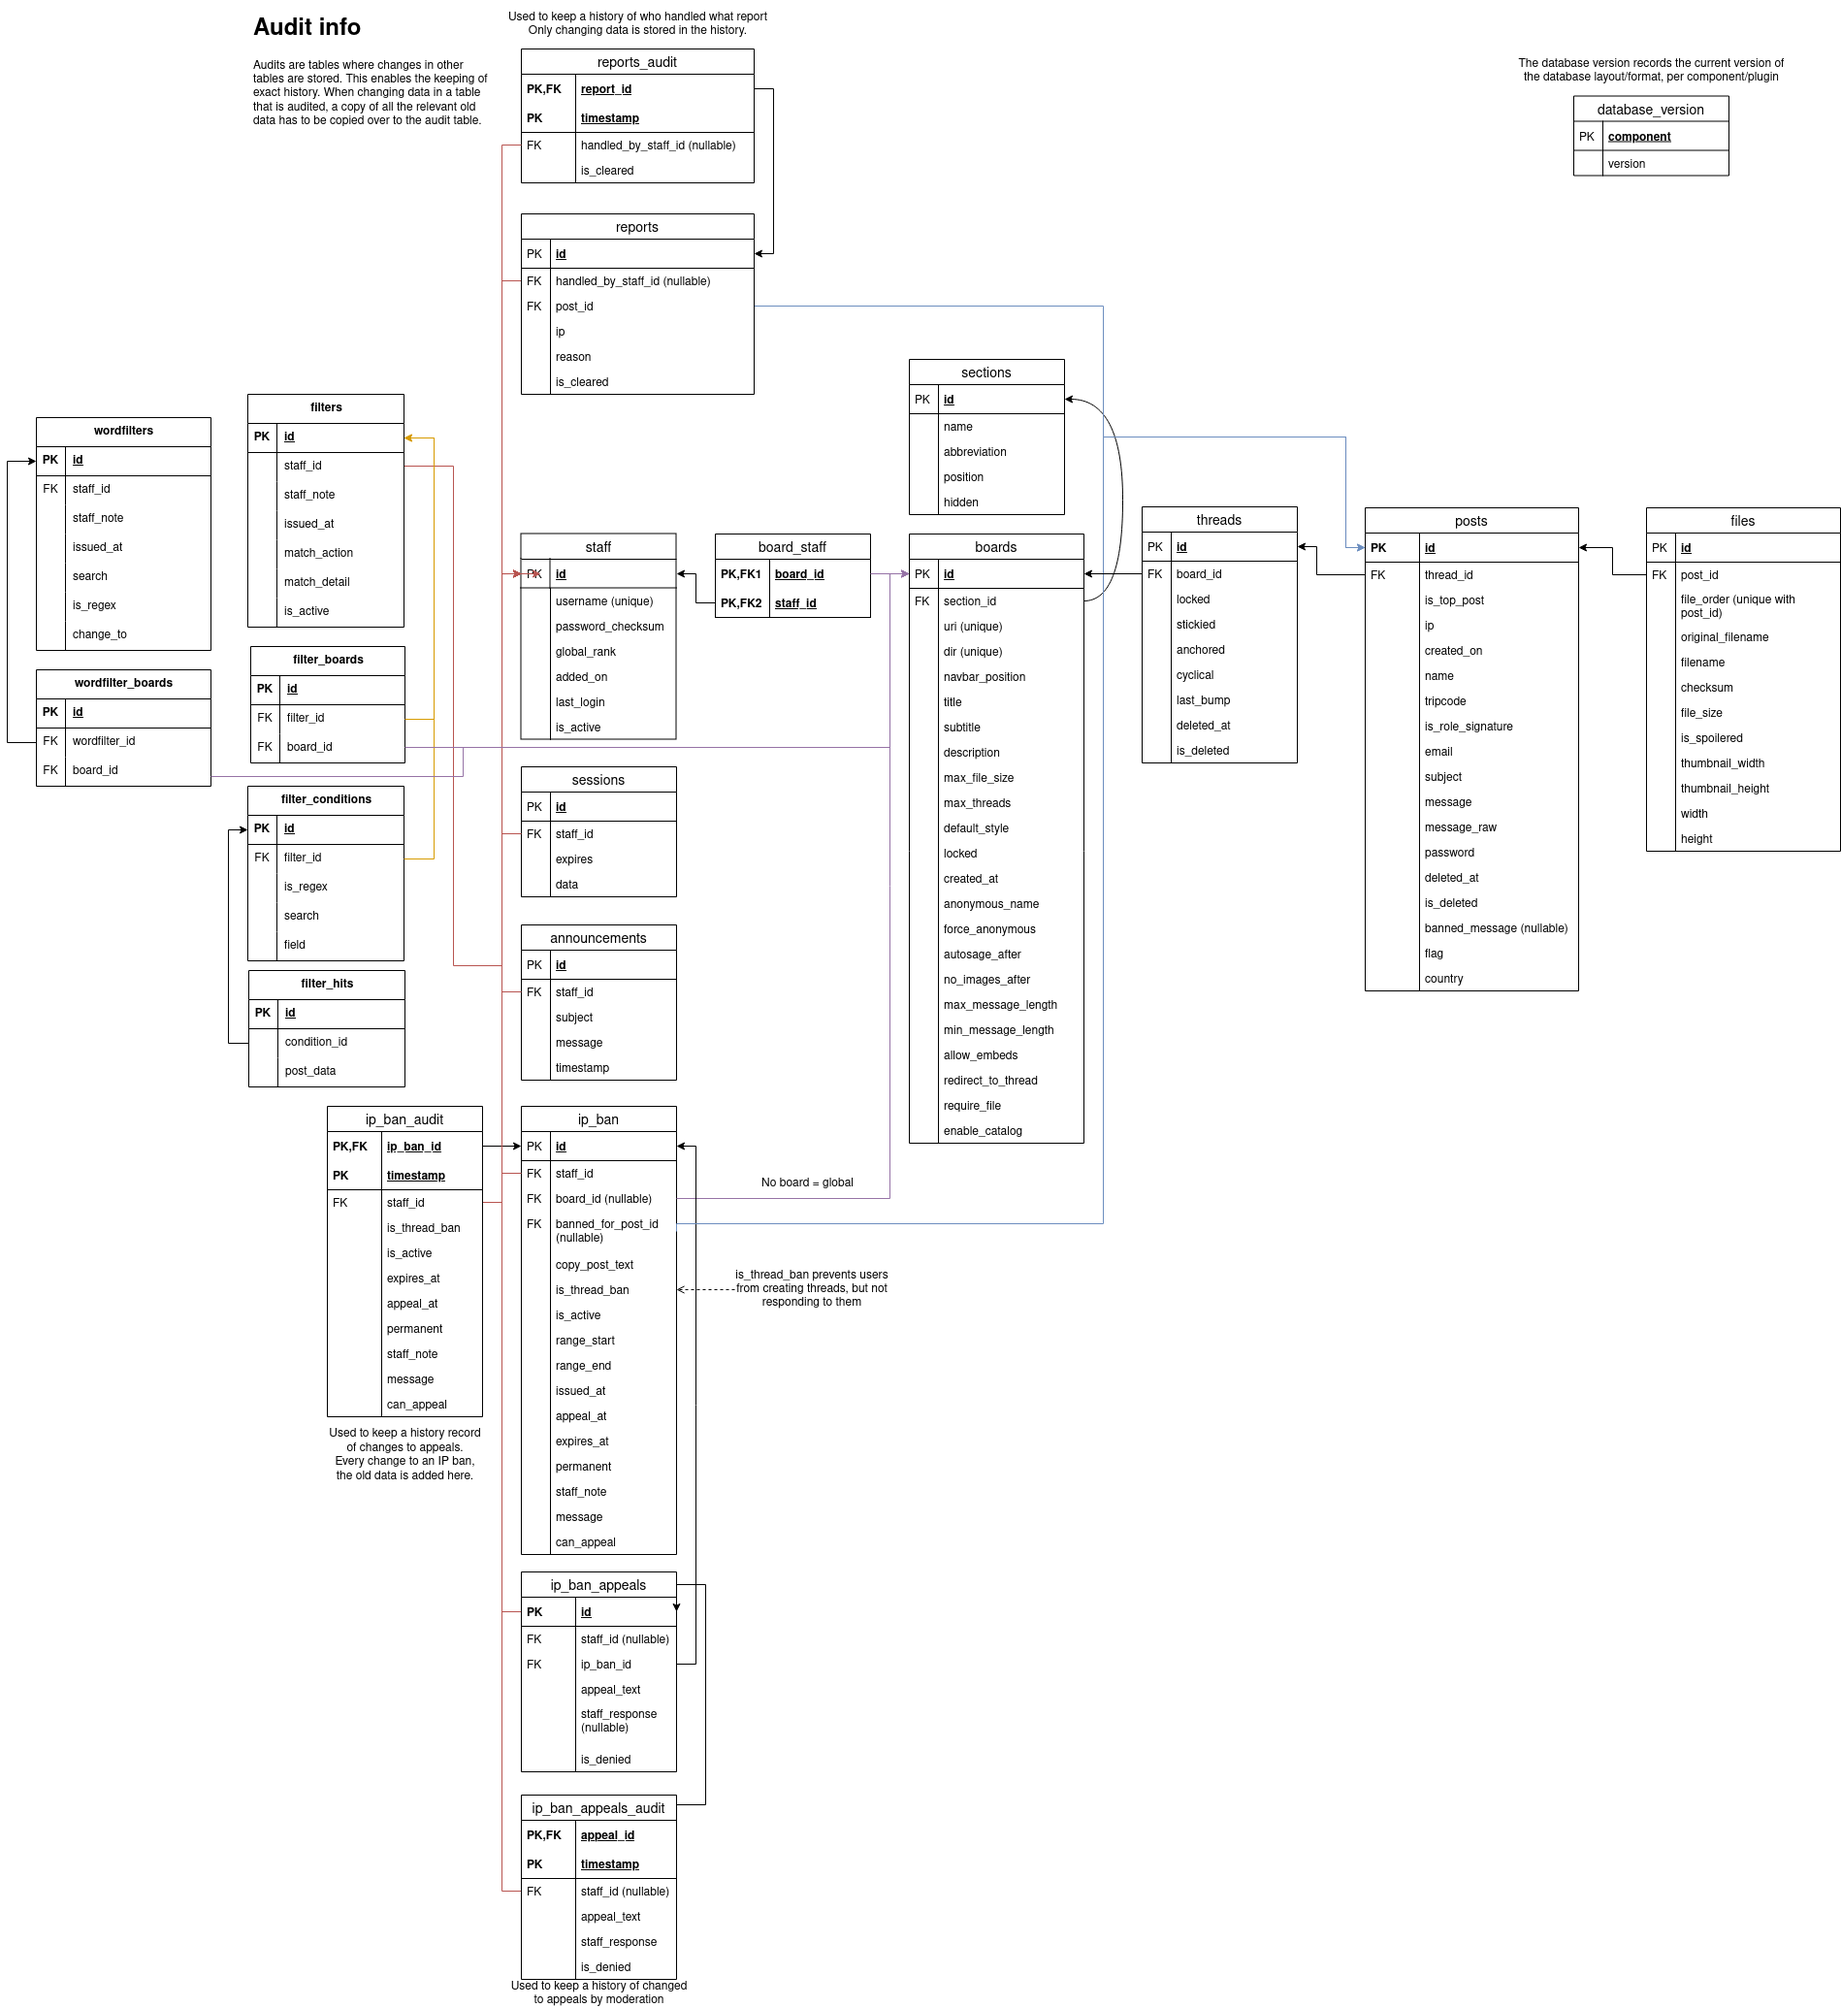
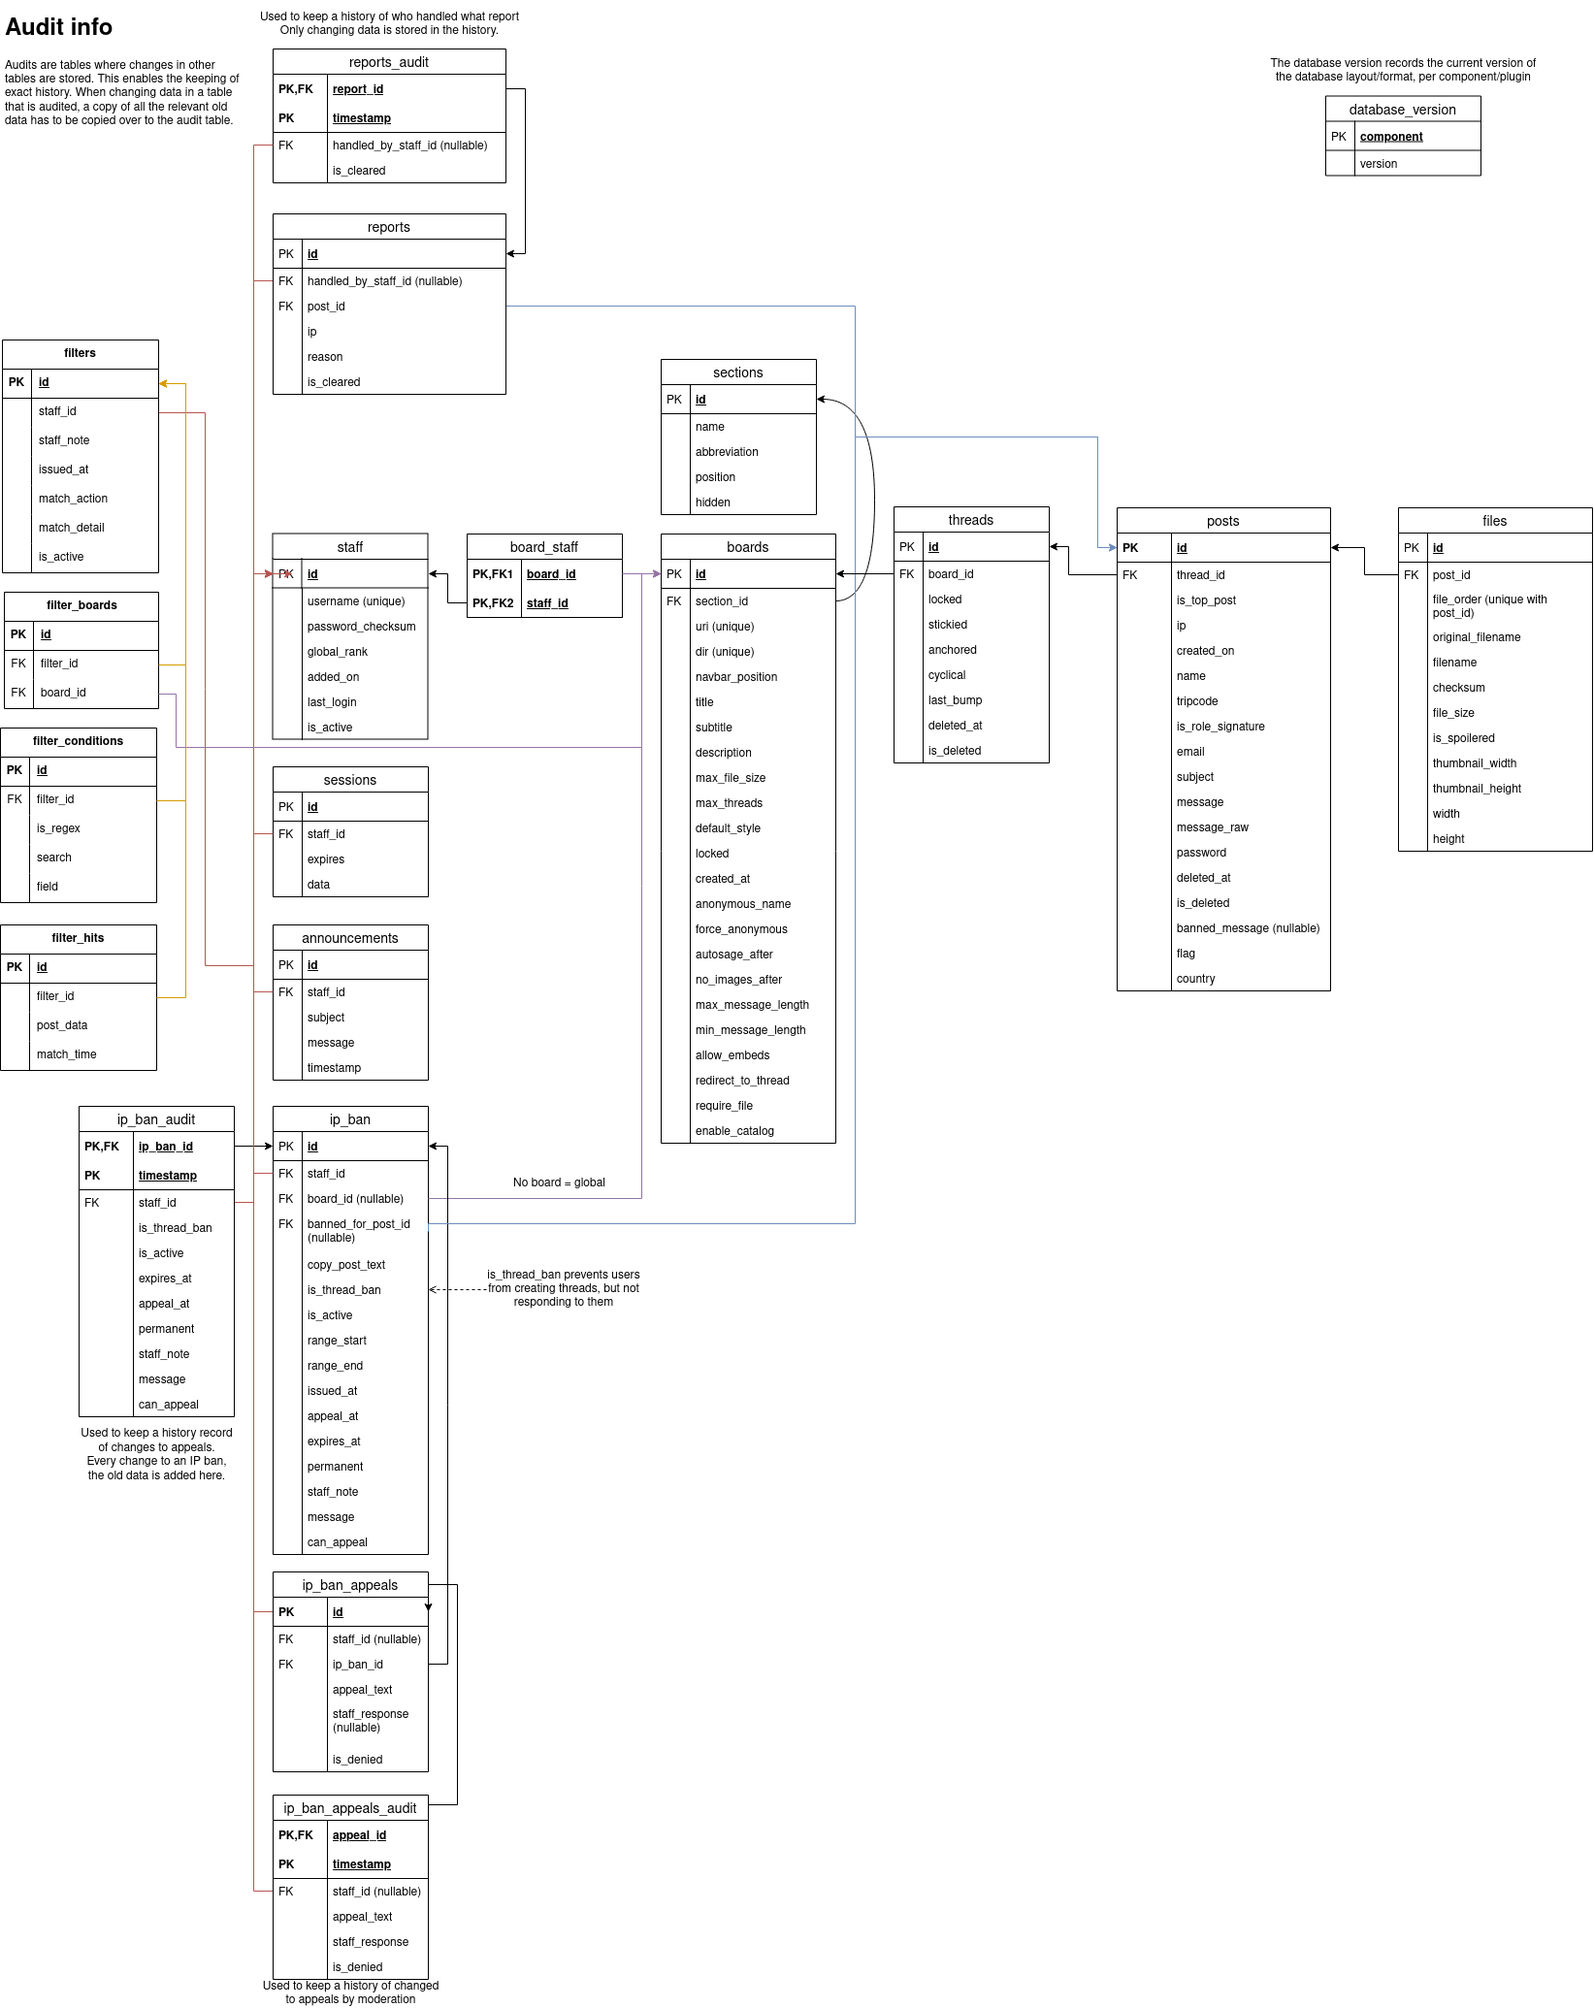
Update init SQL files and schema diagram now that the wordfilter table is no longer necessary

diff --git a/pkg/gcsql/tables.go b/pkg/gcsql/tables.go
@@ -152,6 +152,15 @@ func (fc *FilterCondition) insert(ctx context.Context, tx *sql.Tx) error {
 	return err
 }
 
+// FilterHit represents a match from a post filter to an attempted post
+// table: DBPREFIXfilter_hits
+type FilterHit struct {
+	ID        int       // sql: id
+	FilterID  int       // sql: filter_id
+	PostData  string    // sql: post_data
+	MatchTime time.Time // sql: match_time
+}
+
 // Upload represents a file attached to a post.
 // table: DBPREFIXfiles
 type Upload struct {
